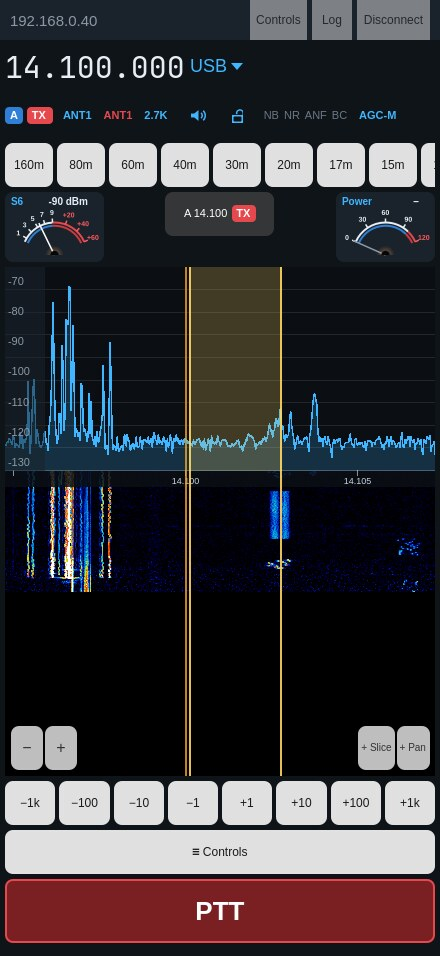
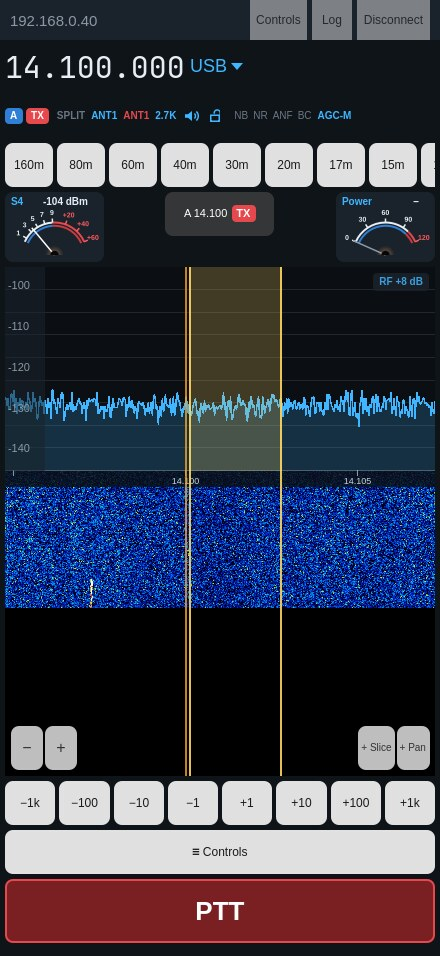
mobile: README, screenshots and TestFlight notes for the next build
Claude-Session: https://claude.ai/code/session_01KANojkzU64KoozGDbNDzRK

diff --git a/README.md b/README.md
@@ -56,11 +56,19 @@ radio interface, with no computer running alongside.
   touch target with its choices behind it: the antennas open their
   chooser; the width and the flags the mode's eight filter widths and the
   radio's DSP (NR, NB, ANF, APF in CW, NRL/ANFL/ANFT and NRS/RNN/NRF where
-  the radio has them); AGC its modes; the speaker mutes, the lock locks.
+  the radio has them); AGC its modes, AGC threshold and RF gain; the
+  speaker mutes, the lock locks.
+- **Split**, as SmartSDR and AetherSDR: SPLIT on the info panel adds a TX
+  slice 1 kHz (CW) or 5 kHz up, muted, with transmit and focus to tune the
+  offset; tap again to end it.
+- RF gain shown at the top right of the spectrum; a preamp or attenuator
+  step shows on the waterfall and trace, as on the desktop.
 - **Beat cancel (BC)**, as on Kenwood rigs: the app finds steady carriers
   in the receive audio (someone tuning up on the frequency) and notches
   them out within ~0.15 s, leaving voice alone. Voice modes only.
-- AGC threshold and AF gain in the controls.
+- AF gain in the controls; RIT and XIT −/+ run while held, faster the
+  longer.
+- Notices and refusals pop up in the middle of the display.
 - Two meters on the slice row, SmartSDR style. Tap either one to choose S,
   Power, SWR, ALC, Mic, Compression, PA temperature or supply voltage,
   separately for receive and transmit (e.g. S and Power, then SWR and Power
@@ -87,9 +95,11 @@ radio interface, with no computer running alongside.
   set to `PC` when the app connects), with RF power, mic gain and mic level, plus forward power and SWR
   while transmitting. The microphone is open only while PTT is held.
 - CW: in CW modes the PTT button is the straight key (radio-side keyer and
-  sidetone); six editable memories ({CALL} = your callsign) and CWX text
+  sidetone); editable memories ({CALL} = your callsign) and CWX text
   sent by the radio at the set speed; speed, pitch and break-in, plus the CW decoder
-  with the decoded text along the top of the waterfall.
+  with the decoded text along the top of the waterfall (what you send shows
+  there too). Nine memories; the callsign {CALL} sends can be set in the
+  app (written to the radio).
 - Safety first. Keying goes through AetherSDR's `TxController`, and every TX
   audio packet passes the engine's `TxCoordinator` dispatch fence. The
   transmitter unkeys on release, on disconnect, when the app loses focus,
@@ -105,7 +115,8 @@ radio interface, with no computer running alongside.
   View, Stage Manager and folding (iPhone Duo).
 - The waterfall gets the screen. On iPhone, the controls (DSP, Audio, TX,
   CW, View, Profiles, Memory) live in a drawer that slides in over it when needed. On iPad the side
-  panel can be hidden into the same drawer. PTT always stays on screen.
+  panel can be hidden into the same drawer. PTT/KEY always stays on screen:
+  the drawer carries it at the bottom, never covering it.
 - Apple Pencil drags tune 10× finer, for zero-beating.
 - Magic Keyboard and trackpad: arrows tune, Space is PTT, +/− zoom, F opens
   frequency entry, scroll tunes and ⌘-scroll zooms.
